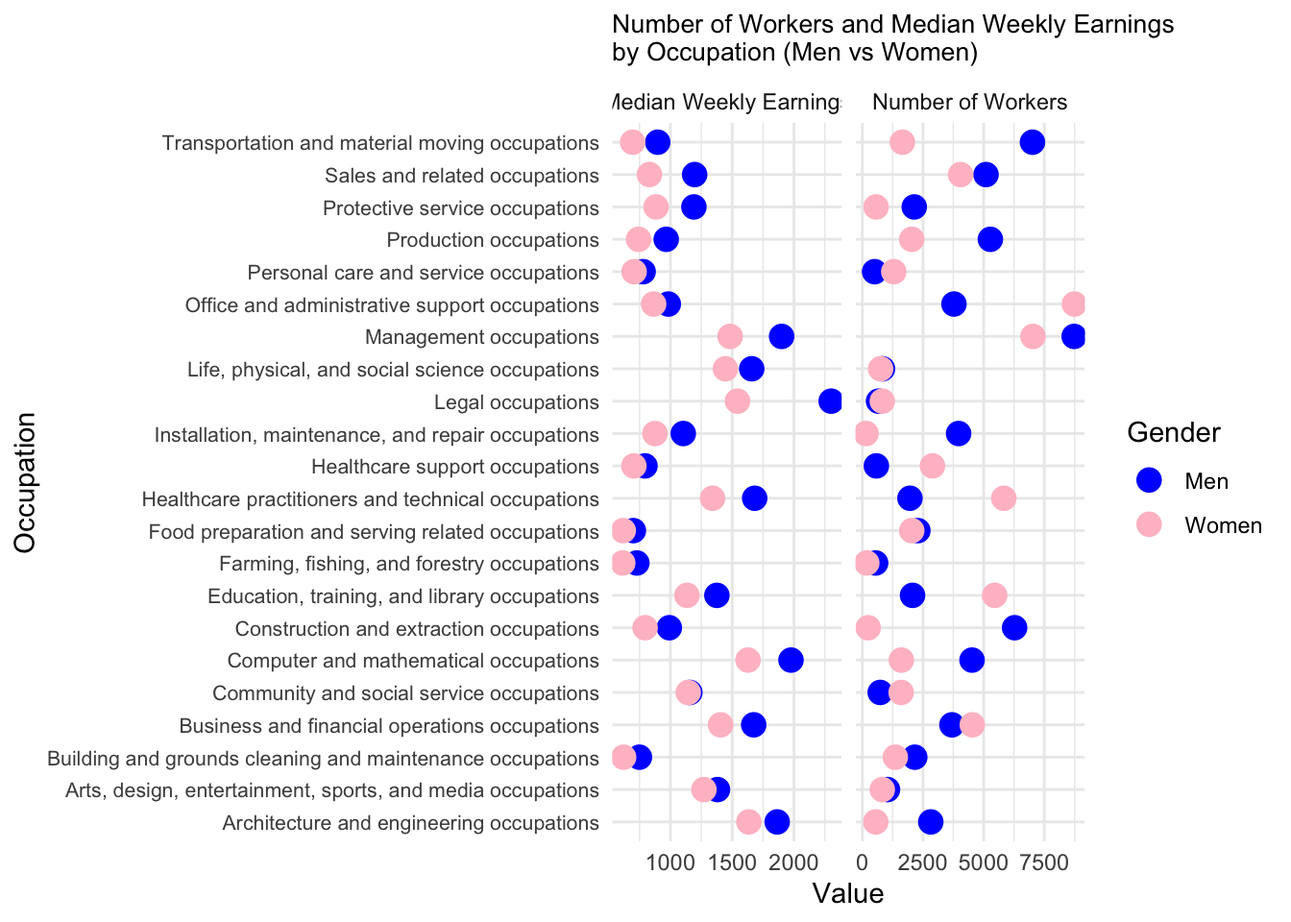
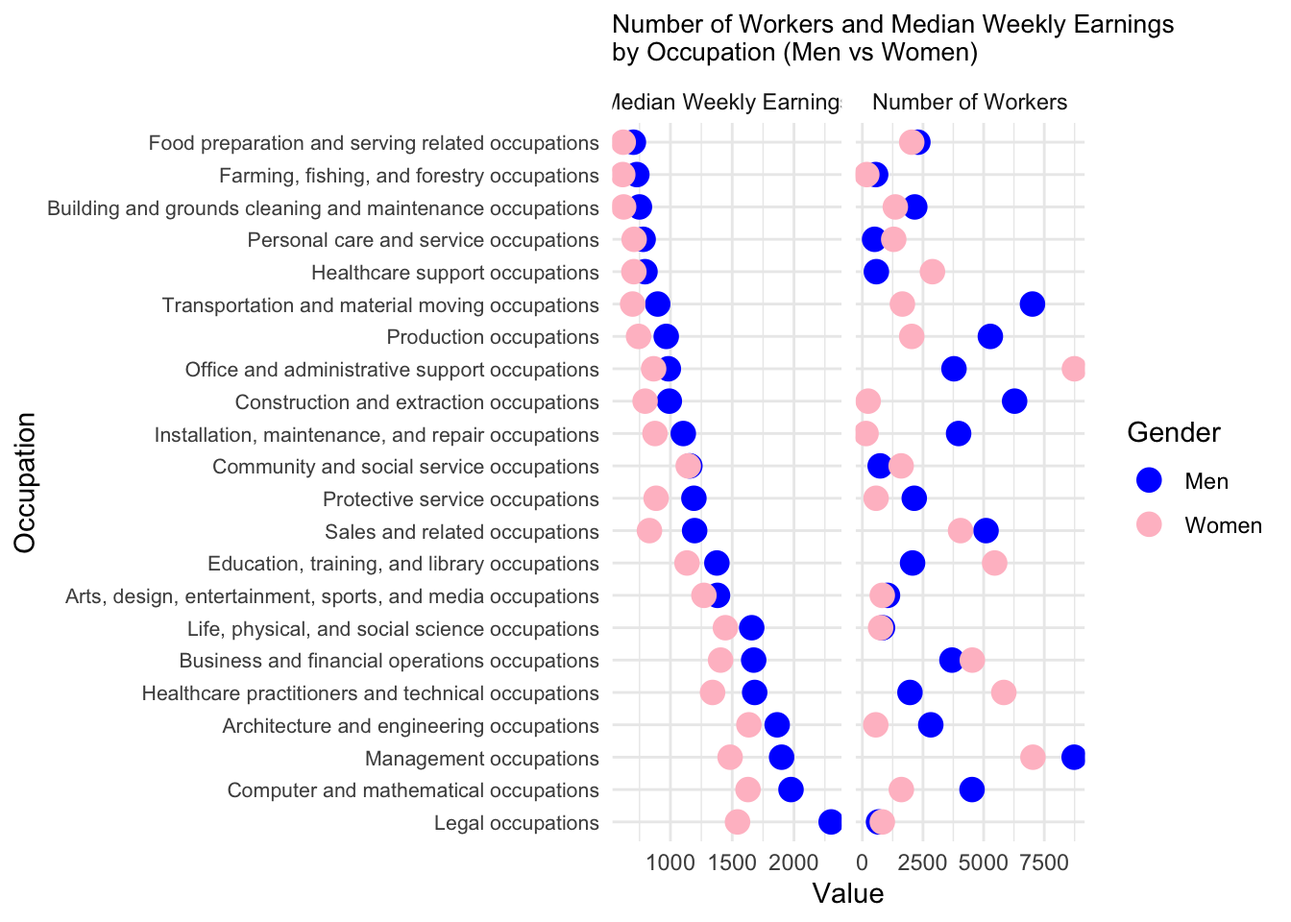
change clevland dot plot order

diff --git a/docs/results.html b/docs/results.html
@@ -329,31 +329,45 @@ pre > code.sourceCode > span > a:first-child::before { text-decoration: underlin
 <div class="cell">
 <details class="code-fold">
 <summary>Code</summary>
-<div class="sourceCode cell-code" id="cb3"><pre class="sourceCode r code-with-copy"><code class="sourceCode r"><span id="cb3-1"><a href="#cb3-1" aria-hidden="true" tabindex="-1"></a><span class="co"># Reshape the data to long format</span></span>
+<div class="sourceCode cell-code" id="cb3"><pre class="sourceCode r code-with-copy"><code class="sourceCode r"><span id="cb3-1"><a href="#cb3-1" aria-hidden="true" tabindex="-1"></a><span class="co"># Order occupations by men_median_weekly_earnings</span></span>
 <span id="cb3-2"><a href="#cb3-2" aria-hidden="true" tabindex="-1"></a>data_long <span class="ot">&lt;-</span> MedianWeeklyEarningsByOccupationAggregate <span class="sc">|&gt;</span></span>
-<span id="cb3-3"><a href="#cb3-3" aria-hidden="true" tabindex="-1"></a>  dplyr<span class="sc">::</span><span class="fu">select</span>(occupation, men_number_of_workers, women_number_of_workers, men_median_weekly_earnings, women_median_weekly_earnings) <span class="sc">|&gt;</span></span>
-<span id="cb3-4"><a href="#cb3-4" aria-hidden="true" tabindex="-1"></a>  <span class="fu">pivot_longer</span>(<span class="at">cols =</span> <span class="fu">c</span>(men_number_of_workers, women_number_of_workers, men_median_weekly_earnings, women_median_weekly_earnings), </span>
-<span id="cb3-5"><a href="#cb3-5" aria-hidden="true" tabindex="-1"></a>               <span class="at">names_to =</span> <span class="st">"variable"</span>, <span class="at">values_to =</span> <span class="st">"value"</span>) <span class="sc">|&gt;</span></span>
-<span id="cb3-6"><a href="#cb3-6" aria-hidden="true" tabindex="-1"></a>  <span class="fu">mutate</span>(<span class="at">gender =</span> <span class="fu">case_when</span>(</span>
-<span id="cb3-7"><a href="#cb3-7" aria-hidden="true" tabindex="-1"></a>    <span class="fu">str_detect</span>(variable, <span class="st">"women"</span>) <span class="sc">~</span> <span class="st">"Women"</span>,</span>
-<span id="cb3-8"><a href="#cb3-8" aria-hidden="true" tabindex="-1"></a>    <span class="fu">str_detect</span>(variable, <span class="st">"men"</span>) <span class="sc">~</span> <span class="st">"Men"</span></span>
-<span id="cb3-9"><a href="#cb3-9" aria-hidden="true" tabindex="-1"></a>  ),</span>
-<span id="cb3-10"><a href="#cb3-10" aria-hidden="true" tabindex="-1"></a>  <span class="at">variable =</span> <span class="fu">case_when</span>(</span>
-<span id="cb3-11"><a href="#cb3-11" aria-hidden="true" tabindex="-1"></a>    <span class="fu">str_detect</span>(variable, <span class="st">"number_of_workers"</span>) <span class="sc">~</span> <span class="st">"Number of Workers"</span>,</span>
-<span id="cb3-12"><a href="#cb3-12" aria-hidden="true" tabindex="-1"></a>    <span class="fu">str_detect</span>(variable, <span class="st">"median_weekly_earnings"</span>) <span class="sc">~</span> <span class="st">"Median Weekly Earnings"</span></span>
-<span id="cb3-13"><a href="#cb3-13" aria-hidden="true" tabindex="-1"></a>  ))</span>
-<span id="cb3-14"><a href="#cb3-14" aria-hidden="true" tabindex="-1"></a></span>
-<span id="cb3-15"><a href="#cb3-15" aria-hidden="true" tabindex="-1"></a><span class="co"># Plot with both number of workers and median weekly earnings</span></span>
-<span id="cb3-16"><a href="#cb3-16" aria-hidden="true" tabindex="-1"></a><span class="fu">ggplot</span>(data_long, <span class="fu">aes</span>(<span class="at">x =</span> value, <span class="at">y =</span> occupation, <span class="at">color =</span> gender)) <span class="sc">+</span></span>
-<span id="cb3-17"><a href="#cb3-17" aria-hidden="true" tabindex="-1"></a>  <span class="fu">geom_point</span>(<span class="at">size =</span> <span class="dv">4</span>) <span class="sc">+</span></span>
-<span id="cb3-18"><a href="#cb3-18" aria-hidden="true" tabindex="-1"></a>  <span class="fu">facet_wrap</span>(<span class="sc">~</span> variable, <span class="at">scales =</span> <span class="st">"free_x"</span>) <span class="sc">+</span>  <span class="co"># Separate by the variable (Workers vs Earnings)</span></span>
-<span id="cb3-19"><a href="#cb3-19" aria-hidden="true" tabindex="-1"></a>  <span class="fu">scale_color_manual</span>(<span class="at">values =</span> <span class="fu">c</span>(<span class="st">"blue"</span>, <span class="st">"pink"</span>)) <span class="sc">+</span></span>
-<span id="cb3-20"><a href="#cb3-20" aria-hidden="true" tabindex="-1"></a>  <span class="fu">labs</span>(<span class="at">title =</span> <span class="st">"Number of Workers and Median Weekly Earnings </span><span class="sc">\n</span><span class="st">by Occupation (Men vs Women)"</span>,</span>
-<span id="cb3-21"><a href="#cb3-21" aria-hidden="true" tabindex="-1"></a>       <span class="at">x =</span> <span class="st">"Value"</span>, </span>
-<span id="cb3-22"><a href="#cb3-22" aria-hidden="true" tabindex="-1"></a>       <span class="at">y =</span> <span class="st">"Occupation"</span>,</span>
-<span id="cb3-23"><a href="#cb3-23" aria-hidden="true" tabindex="-1"></a>       <span class="at">color =</span> <span class="st">"Gender"</span>) <span class="sc">+</span></span>
-<span id="cb3-24"><a href="#cb3-24" aria-hidden="true" tabindex="-1"></a>  <span class="fu">theme_minimal</span>() <span class="sc">+</span></span>
-<span id="cb3-25"><a href="#cb3-25" aria-hidden="true" tabindex="-1"></a>  <span class="fu">theme</span>(<span class="at">axis.text.y =</span> <span class="fu">element_text</span>(<span class="at">size =</span> <span class="dv">8</span>), <span class="at">plot.title =</span> <span class="fu">element_text</span>(<span class="at">size =</span> <span class="dv">10</span>))  <span class="co"># Adjust y-axis labels for readability</span></span></code><button title="Copy to Clipboard" class="code-copy-button"><i class="bi"></i></button></pre></div>
+<span id="cb3-3"><a href="#cb3-3" aria-hidden="true" tabindex="-1"></a>  dplyr<span class="sc">::</span><span class="fu">mutate</span>(</span>
+<span id="cb3-4"><a href="#cb3-4" aria-hidden="true" tabindex="-1"></a>    <span class="at">occupation =</span> <span class="fu">factor</span>(</span>
+<span id="cb3-5"><a href="#cb3-5" aria-hidden="true" tabindex="-1"></a>      occupation,</span>
+<span id="cb3-6"><a href="#cb3-6" aria-hidden="true" tabindex="-1"></a>      <span class="at">levels =</span> MedianWeeklyEarningsByOccupationAggregate <span class="sc">|&gt;</span></span>
+<span id="cb3-7"><a href="#cb3-7" aria-hidden="true" tabindex="-1"></a>        dplyr<span class="sc">::</span><span class="fu">arrange</span>(<span class="fu">desc</span>(men_median_weekly_earnings)) <span class="sc">|&gt;</span></span>
+<span id="cb3-8"><a href="#cb3-8" aria-hidden="true" tabindex="-1"></a>        dplyr<span class="sc">::</span><span class="fu">pull</span>(occupation)</span>
+<span id="cb3-9"><a href="#cb3-9" aria-hidden="true" tabindex="-1"></a>    )</span>
+<span id="cb3-10"><a href="#cb3-10" aria-hidden="true" tabindex="-1"></a>  ) <span class="sc">|&gt;</span></span>
+<span id="cb3-11"><a href="#cb3-11" aria-hidden="true" tabindex="-1"></a>  dplyr<span class="sc">::</span><span class="fu">select</span>(occupation, men_number_of_workers, women_number_of_workers, men_median_weekly_earnings, women_median_weekly_earnings) <span class="sc">|&gt;</span></span>
+<span id="cb3-12"><a href="#cb3-12" aria-hidden="true" tabindex="-1"></a>  <span class="fu">pivot_longer</span>(</span>
+<span id="cb3-13"><a href="#cb3-13" aria-hidden="true" tabindex="-1"></a>    <span class="at">cols =</span> <span class="fu">c</span>(men_number_of_workers, women_number_of_workers, men_median_weekly_earnings, women_median_weekly_earnings), </span>
+<span id="cb3-14"><a href="#cb3-14" aria-hidden="true" tabindex="-1"></a>    <span class="at">names_to =</span> <span class="st">"variable"</span>, <span class="at">values_to =</span> <span class="st">"value"</span></span>
+<span id="cb3-15"><a href="#cb3-15" aria-hidden="true" tabindex="-1"></a>  ) <span class="sc">|&gt;</span></span>
+<span id="cb3-16"><a href="#cb3-16" aria-hidden="true" tabindex="-1"></a>  dplyr<span class="sc">::</span><span class="fu">mutate</span>(</span>
+<span id="cb3-17"><a href="#cb3-17" aria-hidden="true" tabindex="-1"></a>    <span class="at">gender =</span> dplyr<span class="sc">::</span><span class="fu">case_when</span>(</span>
+<span id="cb3-18"><a href="#cb3-18" aria-hidden="true" tabindex="-1"></a>      stringr<span class="sc">::</span><span class="fu">str_detect</span>(variable, <span class="st">"women"</span>) <span class="sc">~</span> <span class="st">"Women"</span>,</span>
+<span id="cb3-19"><a href="#cb3-19" aria-hidden="true" tabindex="-1"></a>      stringr<span class="sc">::</span><span class="fu">str_detect</span>(variable, <span class="st">"men"</span>) <span class="sc">~</span> <span class="st">"Men"</span></span>
+<span id="cb3-20"><a href="#cb3-20" aria-hidden="true" tabindex="-1"></a>    ),</span>
+<span id="cb3-21"><a href="#cb3-21" aria-hidden="true" tabindex="-1"></a>    <span class="at">variable =</span> dplyr<span class="sc">::</span><span class="fu">case_when</span>(</span>
+<span id="cb3-22"><a href="#cb3-22" aria-hidden="true" tabindex="-1"></a>      stringr<span class="sc">::</span><span class="fu">str_detect</span>(variable, <span class="st">"number_of_workers"</span>) <span class="sc">~</span> <span class="st">"Number of Workers"</span>,</span>
+<span id="cb3-23"><a href="#cb3-23" aria-hidden="true" tabindex="-1"></a>      stringr<span class="sc">::</span><span class="fu">str_detect</span>(variable, <span class="st">"median_weekly_earnings"</span>) <span class="sc">~</span> <span class="st">"Median Weekly Earnings"</span></span>
+<span id="cb3-24"><a href="#cb3-24" aria-hidden="true" tabindex="-1"></a>    )</span>
+<span id="cb3-25"><a href="#cb3-25" aria-hidden="true" tabindex="-1"></a>  )</span>
+<span id="cb3-26"><a href="#cb3-26" aria-hidden="true" tabindex="-1"></a></span>
+<span id="cb3-27"><a href="#cb3-27" aria-hidden="true" tabindex="-1"></a><span class="co"># Plot with ordered occupations</span></span>
+<span id="cb3-28"><a href="#cb3-28" aria-hidden="true" tabindex="-1"></a><span class="fu">ggplot</span>(data_long, <span class="fu">aes</span>(<span class="at">x =</span> value, <span class="at">y =</span> occupation, <span class="at">color =</span> gender)) <span class="sc">+</span></span>
+<span id="cb3-29"><a href="#cb3-29" aria-hidden="true" tabindex="-1"></a>  <span class="fu">geom_point</span>(<span class="at">size =</span> <span class="dv">4</span>) <span class="sc">+</span></span>
+<span id="cb3-30"><a href="#cb3-30" aria-hidden="true" tabindex="-1"></a>  <span class="fu">facet_wrap</span>(<span class="sc">~</span> variable, <span class="at">scales =</span> <span class="st">"free_x"</span>) <span class="sc">+</span>  <span class="co"># Separate by the variable (Workers vs Earnings)</span></span>
+<span id="cb3-31"><a href="#cb3-31" aria-hidden="true" tabindex="-1"></a>  <span class="fu">scale_color_manual</span>(<span class="at">values =</span> <span class="fu">c</span>(<span class="st">"blue"</span>, <span class="st">"pink"</span>)) <span class="sc">+</span></span>
+<span id="cb3-32"><a href="#cb3-32" aria-hidden="true" tabindex="-1"></a>  <span class="fu">labs</span>(</span>
+<span id="cb3-33"><a href="#cb3-33" aria-hidden="true" tabindex="-1"></a>    <span class="at">title =</span> <span class="st">"Number of Workers and Median Weekly Earnings </span><span class="sc">\n</span><span class="st">by Occupation (Men vs Women)"</span>,</span>
+<span id="cb3-34"><a href="#cb3-34" aria-hidden="true" tabindex="-1"></a>    <span class="at">x =</span> <span class="st">"Value"</span>, </span>
+<span id="cb3-35"><a href="#cb3-35" aria-hidden="true" tabindex="-1"></a>    <span class="at">y =</span> <span class="st">"Occupation"</span>,</span>
+<span id="cb3-36"><a href="#cb3-36" aria-hidden="true" tabindex="-1"></a>    <span class="at">color =</span> <span class="st">"Gender"</span></span>
+<span id="cb3-37"><a href="#cb3-37" aria-hidden="true" tabindex="-1"></a>  ) <span class="sc">+</span></span>
+<span id="cb3-38"><a href="#cb3-38" aria-hidden="true" tabindex="-1"></a>  <span class="fu">theme_minimal</span>() <span class="sc">+</span></span>
+<span id="cb3-39"><a href="#cb3-39" aria-hidden="true" tabindex="-1"></a>  <span class="fu">theme</span>(<span class="at">axis.text.y =</span> <span class="fu">element_text</span>(<span class="at">size =</span> <span class="dv">8</span>), <span class="at">plot.title =</span> <span class="fu">element_text</span>(<span class="at">size =</span> <span class="dv">10</span>))  <span class="co"># Adjust y-axis labels for readability</span></span></code><button title="Copy to Clipboard" class="code-copy-button"><i class="bi"></i></button></pre></div>
 </details>
 <div class="cell-output-display">
 <div>
@@ -507,8 +521,8 @@ pre > code.sourceCode > span > a:first-child::before { text-decoration: underlin
 <span id="cb6-48"><a href="#cb6-48" aria-hidden="true" tabindex="-1"></a>  )</span></code><button title="Copy to Clipboard" class="code-copy-button"><i class="bi"></i></button></pre></div>
 </details>
 <div class="cell-output-display">
-<div class="plotly html-widget html-fill-item" id="htmlwidget-113b57d414bc28be6945" style="width:100%;height:464px;"></div>
-<script type="application/json" data-for="htmlwidget-113b57d414bc28be6945">{"x":{"visdat":{"c8b077e2709":["function () ","plotlyVisDat"]},"cur_data":"c8b077e2709","attrs":{"c8b077e2709":{"x":{},"y":{},"mode":"markers","text":{},"hoverinfo":"text","marker":{"size":10,"opacity":0.69999999999999996},"color":{},"colors":["red","blue","green","orange"],"alpha_stroke":1,"sizes":[10,100],"spans":[1,20],"type":"scatter"}},"layout":{"margin":{"b":40,"l":60,"t":25,"r":10},"title":"Men vs. Women Median Weekly Earnings by Occupation","xaxis":{"domain":[0,1],"automargin":true,"title":"Men's Median Weekly Earnings ($)"},"yaxis":{"domain":[0,1],"automargin":true,"title":"Women's Median Weekly Earnings ($)"},"shapes":[{"type":"line","x0":500,"x1":2983,"y0":500,"y1":2907,"line":{"color":"black","width":2,"dash":"dot"}}],"annotations":[{"x":1.1000000000000001,"y":0.050000000000000003,"xref":"paper","yref":"paper","text":"---- Men Median Pay = Women Median Pay","showarrow":true,"arrowhead":2,"ax":20,"ay":0,"font":{"size":12,"color":"black"}}],"hovermode":"closest","showlegend":true},"source":"A","config":{"modeBarButtonsToAdd":["hoverclosest","hovercompare"],"showSendToCloud":false},"data":[{"x":[1294,1495,1312],"y":[1221,1408,1609],"mode":"markers","text":["Graphic designers","Other designers","Producers and directors"],"hoverinfo":["text","text","text"],"marker":{"color":"rgba(255,0,0,1)","size":10,"opacity":0.69999999999999996,"line":{"color":"rgba(255,0,0,1)"}},"type":"scatter","name":"Arts, design, entertainment, sports, and media occupations","textfont":{"color":"rgba(255,0,0,1)"},"error_y":{"color":"rgba(255,0,0,1)"},"error_x":{"color":"rgba(255,0,0,1)"},"line":{"color":"rgba(255,0,0,1)"},"xaxis":"x","yaxis":"y","frame":null},{"x":[1852,1370,1347,1242,772],"y":[1565,1220,1213,1124,685],"mode":"markers","text":["Postsecondary teachers","Elementary and middle school teachers","Secondary school teachers","Other teachers and instructors","Teaching assistants"],"hoverinfo":["text","text","text","text","text"],"marker":{"color":"rgba(218,0,108,1)","size":10,"opacity":0.69999999999999996,"line":{"color":"rgba(218,0,108,1)"}},"type":"scatter","name":"Education related occupations","textfont":{"color":"rgba(218,0,108,1)"},"error_y":{"color":"rgba(218,0,108,1)"},"error_x":{"color":"rgba(218,0,108,1)"},"line":{"color":"rgba(218,0,108,1)"},"xaxis":"x","yaxis":"y","frame":null},{"x":[1682,2238,2920,1715,1657,1172,1483,992,1018,709,751,765,904,919],"y":[1341,2180,2907,1526,1409,1089,1321,886,984,625,668,695,738,790],"mode":"markers","text":["Healthcare practitioners and technical occupations","Pharmacists","Other physicians","Physical therapists","Registered nurses","Clinical laboratory technologists and technicians","Radiologic technologists and technicians","Pharmacy technicians","Licensed practical and licensed vocational nurses","Home health aides","Personal care aides","Nursing assistants","Medical assistants","Other healthcare support workers"],"hoverinfo":["text","text","text","text","text","text","text","text","text","text","text","text","text","text"],"marker":{"color":"rgba(154,0,195,1)","size":10,"opacity":0.69999999999999996,"line":{"color":"rgba(154,0,195,1)"}},"type":"scatter","name":"Healthcare occupations","textfont":{"color":"rgba(154,0,195,1)"},"error_y":{"color":"rgba(154,0,195,1)"},"error_x":{"color":"rgba(154,0,195,1)"},"line":{"color":"rgba(154,0,195,1)"},"xaxis":"x","yaxis":"y","frame":null},{"x":[2983,1689,1911,2297,2313,2100,1891,1879,1318,1747,1870,1121,1914,1521,1501,1887,1270,1514,1468,1597,1367,1648,1207,1919,1993,1771,1737,1644,1760,2082,1457,2386,1736,1894,1906,2296,1478,1631,2208,1668,1893,1839,1766,1953,1287,2290,1742,1430,1157,1227,1248,1253,967,2505,1425],"y":[2520,1347,1746,1688,2192,1497,1706,1585,1219,1431,1469,924,1540,1143,1341,1536,1029,1216,1306,1377,1259,1222,994,1661,1817,1552,1224,1504,1643,1552,1294,1233,1278,1487,1760,2020,1348,1430,1665,1474,1691,1465,1682,1904,982,1537,1649,1275,1144,1158,1011,1228,962,2330,1125],"mode":"markers","text":["Chief executives","General and operations managers","Marketing managers","Sales managers","Computer and information systems managers","Financial managers","Human resources managers","Purchasing managers","Transportation, storage, and distribution managers","Construction managers","Education and childcare administrators","Food service managers","Medical and health services managers","Property, real estate, and community association managers","Social and community service managers","Managers, all other","Wholesale and retail buyers, except farm products","Purchasing agents, except wholesale, retail, and farm products","Claims adjusters, appraisers, examiners, and investigators","Compliance officers","Human resources workers","Training and development specialists","Logisticians","Project management specialists","Management analysts","Market research analysts and marketing specialists","Business operations specialists, all other","Accountants and auditors","Financial and investment analysts","Personal financial advisors","Credit counselors and loan officers","Other financial specialists","Professional and related occupations","Computer systems analysts","Computer programmers","Software developers","Computer support specialists","Computer occupations, all other","Operations research analysts","Other mathematical science occupations","Architects, except landscape and naval","Civil engineers","Industrial engineers, including health and safety","Engineers, all other","Other engineering technologists and technicians, except drafters","Medical scientists","Physical scientists, all other","Other life, physical, and social science technicians","Community and social service occupations","Educational, guidance, and career counselors and advisors","Counselors, all other","Social workers, all other","Social and human service assistants","Lawyers","Paralegals and legal assistants"],"hoverinfo":["text","text","text","text","text","text","text","text","text","text","text","text","text","text","text","text","text","text","text","text","text","text","text","text","text","text","text","text","text","text","text","text","text","text","text","text","text","text","text","text","text","text","text","text","text","text","text","text","text","text","text","text","text","text","text"],"marker":{"color":"rgba(83,58,233,1)","size":10,"opacity":0.69999999999999996,"line":{"color":"rgba(83,58,233,1)"}},"type":"scatter","name":"Management, business, and financial operations occupations","textfont":{"color":"rgba(83,58,233,1)"},"error_y":{"color":"rgba(83,58,233,1)"},"error_x":{"color":"rgba(83,58,233,1)"},"line":{"color":"rgba(83,58,233,1)"},"xaxis":"x","yaxis":"y","frame":null},{"x":[745,686,704,870],"y":[626,611,598,711],"mode":"markers","text":["Janitors and building cleaners","Maids and housekeeping cleaners","Miscellaneous agricultural workers","Construction laborers"],"hoverinfo":["text","text","text","text"],"marker":{"color":"rgba(125,147,166,1)","size":10,"opacity":0.69999999999999996,"line":{"color":"rgba(125,147,166,1)"}},"type":"scatter","name":"Natural resources, construction, and maintenance occupations.","textfont":{"color":"rgba(125,147,166,1)"},"error_y":{"color":"rgba(125,147,166,1)"},"error_x":{"color":"rgba(125,147,166,1)"},"line":{"color":"rgba(125,147,166,1)"},"xaxis":"x","yaxis":"y","frame":null},{"x":[1133,1363,811,854,819,682,645,768,639,684,607,801],"y":[914,1034,717,690,677,608,600,745,595,617,588,716],"mode":"markers","text":["Correctional officers and jailers","Police officers","Security guards and gambling surveillance officers","Chefs and head cooks","First-line supervisors of food preparation and serving workers","Cooks","Food preparation workers","Bartenders","Fast food and counter workers","Waiters and waitresses","Dining room and cafeteria attendants and bartender helpers","Recreation workers"],"hoverinfo":["text","text","text","text","text","text","text","text","text","text","text","text"],"marker":{"color":"rgba(87,228,79,1)","size":10,"opacity":0.69999999999999996,"line":{"color":"rgba(87,228,79,1)"}},"type":"scatter","name":"Personal care and service occupations","textfont":{"color":"rgba(87,228,79,1)"},"error_y":{"color":"rgba(87,228,79,1)"},"error_x":{"color":"rgba(87,228,79,1)"},"line":{"color":"rgba(87,228,79,1)"},"xaxis":"x","yaxis":"y","frame":null},{"x":[1263,887,852,726,818,906,1010,752,893],"y":[914,782,758,656,696,684,809,698,771],"mode":"markers","text":["First-line supervisors of production and operating workers","Electrical, electronics, and electromechanical assemblers","Other assemblers and fabricators","Bakers","Butchers and other meat, poultry, and fish processing workers","Other metal workers and plastic workers","Inspectors, testers, sorters, samplers, and weighers","Packaging and filling machine operators and tenders","Other production workers"],"hoverinfo":["text","text","text","text","text","text","text","text","text"],"marker":{"color":"rgba(135,236,0,1)","size":10,"opacity":0.69999999999999996,"line":{"color":"rgba(135,236,0,1)"}},"type":"scatter","name":"Production occupations","textfont":{"color":"rgba(135,236,0,1)"},"error_y":{"color":"rgba(135,236,0,1)"},"error_x":{"color":"rgba(135,236,0,1)"},"line":{"color":"rgba(135,236,0,1)"},"xaxis":"x","yaxis":"y","frame":null},{"x":[1094,1464,616,988,1728,1310,2412,1451,1535,1444,1019,1209,1100,1335,918,770,885,1128,1194,1335,827,1101,819,1062,867,1038],"y":[904,1151,602,710,1398,927,1654,1137,1215,1215,807,1075,922,1009,799,749,711,852,1015,1333,789,882,809,896,824,988],"mode":"markers","text":["First-line supervisors of retail sales workers","First-line supervisors of non-retail sales workers","Cashiers","Retail salespersons","Advertising sales agents","Insurance sales agents","Securities, commodities, and financial services sales agents","Sales representatives of services, except advertising, insurance, financial services, and travel","Sales representatives, wholesale and manufacturing","Real estate brokers and sales agents","Sales and related workers, all other","First-line supervisors of office and administrative support workers","Bookkeeping, accounting, and auditing clerks","Financial clerks, all other","Customer service representatives","Receptionists and information clerks","Couriers and messengers","Dispatchers, except police, fire, and ambulance","Postal service mail carriers","Production, planning, and expediting clerks","Shipping, receiving, and inventory clerks","Secretaries and administrative assistants, except legal, medical, and executive","Data entry keyers","Insurance claims and policy processing clerks","Office clerks, general","Office and administrative support workers, all other"],"hoverinfo":["text","text","text","text","text","text","text","text","text","text","text","text","text","text","text","text","text","text","text","text","text","text","text","text","text","text"],"marker":{"color":"rgba(206,204,0,1)","size":10,"opacity":0.69999999999999996,"line":{"color":"rgba(206,204,0,1)"}},"type":"scatter","name":"Sales and office occupations","textfont":{"color":"rgba(206,204,0,1)"},"error_y":{"color":"rgba(206,204,0,1)"},"error_x":{"color":"rgba(206,204,0,1)"},"line":{"color":"rgba(206,204,0,1)"},"xaxis":"x","yaxis":"y","frame":null},{"x":[1127,979,1016,812,704,801,732,730],"y":[791,811,734,786,605,685,667,667],"mode":"markers","text":["Supervisors of transportation and material moving workers","Bus drivers, transit and intercity","Driver/sales workers and truck drivers","Industrial truck and tractor operators","Cleaners of vehicles and equipment","Laborers and freight, stock, and material movers, hand","Packers and packagers, hand","Stockers and order fillers"],"hoverinfo":["text","text","text","text","text","text","text","text"],"marker":{"color":"rgba(255,165,0,1)","size":10,"opacity":0.69999999999999996,"line":{"color":"rgba(255,165,0,1)"}},"type":"scatter","name":"Transportation and material moving occupations","textfont":{"color":"rgba(255,165,0,1)"},"error_y":{"color":"rgba(255,165,0,1)"},"error_x":{"color":"rgba(255,165,0,1)"},"line":{"color":"rgba(255,165,0,1)"},"xaxis":"x","yaxis":"y","frame":null}],"highlight":{"on":"plotly_click","persistent":false,"dynamic":false,"selectize":false,"opacityDim":0.20000000000000001,"selected":{"opacity":1},"debounce":0},"shinyEvents":["plotly_hover","plotly_click","plotly_selected","plotly_relayout","plotly_brushed","plotly_brushing","plotly_clickannotation","plotly_doubleclick","plotly_deselect","plotly_afterplot","plotly_sunburstclick"],"base_url":"https://plot.ly"},"evals":[],"jsHooks":[]}</script>
+<div class="plotly html-widget html-fill-item" id="htmlwidget-d727b5ba210e7c0f6597" style="width:100%;height:464px;"></div>
+<script type="application/json" data-for="htmlwidget-d727b5ba210e7c0f6597">{"x":{"visdat":{"f5ffdadcbff":["function () ","plotlyVisDat"]},"cur_data":"f5ffdadcbff","attrs":{"f5ffdadcbff":{"x":{},"y":{},"mode":"markers","text":{},"hoverinfo":"text","marker":{"size":10,"opacity":0.69999999999999996},"color":{},"colors":["red","blue","green","orange"],"alpha_stroke":1,"sizes":[10,100],"spans":[1,20],"type":"scatter"}},"layout":{"margin":{"b":40,"l":60,"t":25,"r":10},"title":"Men vs. Women Median Weekly Earnings by Occupation","xaxis":{"domain":[0,1],"automargin":true,"title":"Men's Median Weekly Earnings ($)"},"yaxis":{"domain":[0,1],"automargin":true,"title":"Women's Median Weekly Earnings ($)"},"shapes":[{"type":"line","x0":500,"x1":2983,"y0":500,"y1":2907,"line":{"color":"black","width":2,"dash":"dot"}}],"annotations":[{"x":1.1000000000000001,"y":0.050000000000000003,"xref":"paper","yref":"paper","text":"---- Men Median Pay = Women Median Pay","showarrow":true,"arrowhead":2,"ax":20,"ay":0,"font":{"size":12,"color":"black"}}],"hovermode":"closest","showlegend":true},"source":"A","config":{"modeBarButtonsToAdd":["hoverclosest","hovercompare"],"showSendToCloud":false},"data":[{"x":[1294,1495,1312],"y":[1221,1408,1609],"mode":"markers","text":["Graphic designers","Other designers","Producers and directors"],"hoverinfo":["text","text","text"],"marker":{"color":"rgba(255,0,0,1)","size":10,"opacity":0.69999999999999996,"line":{"color":"rgba(255,0,0,1)"}},"type":"scatter","name":"Arts, design, entertainment, sports, and media occupations","textfont":{"color":"rgba(255,0,0,1)"},"error_y":{"color":"rgba(255,0,0,1)"},"error_x":{"color":"rgba(255,0,0,1)"},"line":{"color":"rgba(255,0,0,1)"},"xaxis":"x","yaxis":"y","frame":null},{"x":[1852,1370,1347,1242,772],"y":[1565,1220,1213,1124,685],"mode":"markers","text":["Postsecondary teachers","Elementary and middle school teachers","Secondary school teachers","Other teachers and instructors","Teaching assistants"],"hoverinfo":["text","text","text","text","text"],"marker":{"color":"rgba(218,0,108,1)","size":10,"opacity":0.69999999999999996,"line":{"color":"rgba(218,0,108,1)"}},"type":"scatter","name":"Education related occupations","textfont":{"color":"rgba(218,0,108,1)"},"error_y":{"color":"rgba(218,0,108,1)"},"error_x":{"color":"rgba(218,0,108,1)"},"line":{"color":"rgba(218,0,108,1)"},"xaxis":"x","yaxis":"y","frame":null},{"x":[1682,2238,2920,1715,1657,1172,1483,992,1018,709,751,765,904,919],"y":[1341,2180,2907,1526,1409,1089,1321,886,984,625,668,695,738,790],"mode":"markers","text":["Healthcare practitioners and technical occupations","Pharmacists","Other physicians","Physical therapists","Registered nurses","Clinical laboratory technologists and technicians","Radiologic technologists and technicians","Pharmacy technicians","Licensed practical and licensed vocational nurses","Home health aides","Personal care aides","Nursing assistants","Medical assistants","Other healthcare support workers"],"hoverinfo":["text","text","text","text","text","text","text","text","text","text","text","text","text","text"],"marker":{"color":"rgba(154,0,195,1)","size":10,"opacity":0.69999999999999996,"line":{"color":"rgba(154,0,195,1)"}},"type":"scatter","name":"Healthcare occupations","textfont":{"color":"rgba(154,0,195,1)"},"error_y":{"color":"rgba(154,0,195,1)"},"error_x":{"color":"rgba(154,0,195,1)"},"line":{"color":"rgba(154,0,195,1)"},"xaxis":"x","yaxis":"y","frame":null},{"x":[2983,1689,1911,2297,2313,2100,1891,1879,1318,1747,1870,1121,1914,1521,1501,1887,1270,1514,1468,1597,1367,1648,1207,1919,1993,1771,1737,1644,1760,2082,1457,2386,1736,1894,1906,2296,1478,1631,2208,1668,1893,1839,1766,1953,1287,2290,1742,1430,1157,1227,1248,1253,967,2505,1425],"y":[2520,1347,1746,1688,2192,1497,1706,1585,1219,1431,1469,924,1540,1143,1341,1536,1029,1216,1306,1377,1259,1222,994,1661,1817,1552,1224,1504,1643,1552,1294,1233,1278,1487,1760,2020,1348,1430,1665,1474,1691,1465,1682,1904,982,1537,1649,1275,1144,1158,1011,1228,962,2330,1125],"mode":"markers","text":["Chief executives","General and operations managers","Marketing managers","Sales managers","Computer and information systems managers","Financial managers","Human resources managers","Purchasing managers","Transportation, storage, and distribution managers","Construction managers","Education and childcare administrators","Food service managers","Medical and health services managers","Property, real estate, and community association managers","Social and community service managers","Managers, all other","Wholesale and retail buyers, except farm products","Purchasing agents, except wholesale, retail, and farm products","Claims adjusters, appraisers, examiners, and investigators","Compliance officers","Human resources workers","Training and development specialists","Logisticians","Project management specialists","Management analysts","Market research analysts and marketing specialists","Business operations specialists, all other","Accountants and auditors","Financial and investment analysts","Personal financial advisors","Credit counselors and loan officers","Other financial specialists","Professional and related occupations","Computer systems analysts","Computer programmers","Software developers","Computer support specialists","Computer occupations, all other","Operations research analysts","Other mathematical science occupations","Architects, except landscape and naval","Civil engineers","Industrial engineers, including health and safety","Engineers, all other","Other engineering technologists and technicians, except drafters","Medical scientists","Physical scientists, all other","Other life, physical, and social science technicians","Community and social service occupations","Educational, guidance, and career counselors and advisors","Counselors, all other","Social workers, all other","Social and human service assistants","Lawyers","Paralegals and legal assistants"],"hoverinfo":["text","text","text","text","text","text","text","text","text","text","text","text","text","text","text","text","text","text","text","text","text","text","text","text","text","text","text","text","text","text","text","text","text","text","text","text","text","text","text","text","text","text","text","text","text","text","text","text","text","text","text","text","text","text","text"],"marker":{"color":"rgba(83,58,233,1)","size":10,"opacity":0.69999999999999996,"line":{"color":"rgba(83,58,233,1)"}},"type":"scatter","name":"Management, business, and financial operations occupations","textfont":{"color":"rgba(83,58,233,1)"},"error_y":{"color":"rgba(83,58,233,1)"},"error_x":{"color":"rgba(83,58,233,1)"},"line":{"color":"rgba(83,58,233,1)"},"xaxis":"x","yaxis":"y","frame":null},{"x":[745,686,704,870],"y":[626,611,598,711],"mode":"markers","text":["Janitors and building cleaners","Maids and housekeeping cleaners","Miscellaneous agricultural workers","Construction laborers"],"hoverinfo":["text","text","text","text"],"marker":{"color":"rgba(125,147,166,1)","size":10,"opacity":0.69999999999999996,"line":{"color":"rgba(125,147,166,1)"}},"type":"scatter","name":"Natural resources, construction, and maintenance occupations.","textfont":{"color":"rgba(125,147,166,1)"},"error_y":{"color":"rgba(125,147,166,1)"},"error_x":{"color":"rgba(125,147,166,1)"},"line":{"color":"rgba(125,147,166,1)"},"xaxis":"x","yaxis":"y","frame":null},{"x":[1133,1363,811,854,819,682,645,768,639,684,607,801],"y":[914,1034,717,690,677,608,600,745,595,617,588,716],"mode":"markers","text":["Correctional officers and jailers","Police officers","Security guards and gambling surveillance officers","Chefs and head cooks","First-line supervisors of food preparation and serving workers","Cooks","Food preparation workers","Bartenders","Fast food and counter workers","Waiters and waitresses","Dining room and cafeteria attendants and bartender helpers","Recreation workers"],"hoverinfo":["text","text","text","text","text","text","text","text","text","text","text","text"],"marker":{"color":"rgba(87,228,79,1)","size":10,"opacity":0.69999999999999996,"line":{"color":"rgba(87,228,79,1)"}},"type":"scatter","name":"Personal care and service occupations","textfont":{"color":"rgba(87,228,79,1)"},"error_y":{"color":"rgba(87,228,79,1)"},"error_x":{"color":"rgba(87,228,79,1)"},"line":{"color":"rgba(87,228,79,1)"},"xaxis":"x","yaxis":"y","frame":null},{"x":[1263,887,852,726,818,906,1010,752,893],"y":[914,782,758,656,696,684,809,698,771],"mode":"markers","text":["First-line supervisors of production and operating workers","Electrical, electronics, and electromechanical assemblers","Other assemblers and fabricators","Bakers","Butchers and other meat, poultry, and fish processing workers","Other metal workers and plastic workers","Inspectors, testers, sorters, samplers, and weighers","Packaging and filling machine operators and tenders","Other production workers"],"hoverinfo":["text","text","text","text","text","text","text","text","text"],"marker":{"color":"rgba(135,236,0,1)","size":10,"opacity":0.69999999999999996,"line":{"color":"rgba(135,236,0,1)"}},"type":"scatter","name":"Production occupations","textfont":{"color":"rgba(135,236,0,1)"},"error_y":{"color":"rgba(135,236,0,1)"},"error_x":{"color":"rgba(135,236,0,1)"},"line":{"color":"rgba(135,236,0,1)"},"xaxis":"x","yaxis":"y","frame":null},{"x":[1094,1464,616,988,1728,1310,2412,1451,1535,1444,1019,1209,1100,1335,918,770,885,1128,1194,1335,827,1101,819,1062,867,1038],"y":[904,1151,602,710,1398,927,1654,1137,1215,1215,807,1075,922,1009,799,749,711,852,1015,1333,789,882,809,896,824,988],"mode":"markers","text":["First-line supervisors of retail sales workers","First-line supervisors of non-retail sales workers","Cashiers","Retail salespersons","Advertising sales agents","Insurance sales agents","Securities, commodities, and financial services sales agents","Sales representatives of services, except advertising, insurance, financial services, and travel","Sales representatives, wholesale and manufacturing","Real estate brokers and sales agents","Sales and related workers, all other","First-line supervisors of office and administrative support workers","Bookkeeping, accounting, and auditing clerks","Financial clerks, all other","Customer service representatives","Receptionists and information clerks","Couriers and messengers","Dispatchers, except police, fire, and ambulance","Postal service mail carriers","Production, planning, and expediting clerks","Shipping, receiving, and inventory clerks","Secretaries and administrative assistants, except legal, medical, and executive","Data entry keyers","Insurance claims and policy processing clerks","Office clerks, general","Office and administrative support workers, all other"],"hoverinfo":["text","text","text","text","text","text","text","text","text","text","text","text","text","text","text","text","text","text","text","text","text","text","text","text","text","text"],"marker":{"color":"rgba(206,204,0,1)","size":10,"opacity":0.69999999999999996,"line":{"color":"rgba(206,204,0,1)"}},"type":"scatter","name":"Sales and office occupations","textfont":{"color":"rgba(206,204,0,1)"},"error_y":{"color":"rgba(206,204,0,1)"},"error_x":{"color":"rgba(206,204,0,1)"},"line":{"color":"rgba(206,204,0,1)"},"xaxis":"x","yaxis":"y","frame":null},{"x":[1127,979,1016,812,704,801,732,730],"y":[791,811,734,786,605,685,667,667],"mode":"markers","text":["Supervisors of transportation and material moving workers","Bus drivers, transit and intercity","Driver/sales workers and truck drivers","Industrial truck and tractor operators","Cleaners of vehicles and equipment","Laborers and freight, stock, and material movers, hand","Packers and packagers, hand","Stockers and order fillers"],"hoverinfo":["text","text","text","text","text","text","text","text"],"marker":{"color":"rgba(255,165,0,1)","size":10,"opacity":0.69999999999999996,"line":{"color":"rgba(255,165,0,1)"}},"type":"scatter","name":"Transportation and material moving occupations","textfont":{"color":"rgba(255,165,0,1)"},"error_y":{"color":"rgba(255,165,0,1)"},"error_x":{"color":"rgba(255,165,0,1)"},"line":{"color":"rgba(255,165,0,1)"},"xaxis":"x","yaxis":"y","frame":null}],"highlight":{"on":"plotly_click","persistent":false,"dynamic":false,"selectize":false,"opacityDim":0.20000000000000001,"selected":{"opacity":1},"debounce":0},"shinyEvents":["plotly_hover","plotly_click","plotly_selected","plotly_relayout","plotly_brushed","plotly_brushing","plotly_clickannotation","plotly_doubleclick","plotly_deselect","plotly_afterplot","plotly_sunburstclick"],"base_url":"https://plot.ly"},"evals":[],"jsHooks":[]}</script>
 </div>
 </div>
 </section>

diff --git a/docs/scripts/myscript.js b/docs/scripts/myscript.js
@@ -8,8 +8,7 @@ const rowConverter = function (d) {
     median_income: +d.Total_MedianEarnings,
     median_income_men: +d.Men_MedianEarnings,
     median_income_women: +d.Women_MedianEarnings,
-    job: d.Occupation,
-    job_group: d.Occupation_Group,
+    job: d.Occupation
   };
 };
 
@@ -169,8 +168,8 @@ const extraLegendItem = legend
           .html(
             `<strong>Job:</strong> ${d.job}<br>
              <strong>Year:</strong> ${d.year}<br>
-             <strong>Men Number:</strong> ${d.men}<br>
-             <strong>Women Number:</strong> ${d.women}<br>
+             <strong>Men Num Workers:</strong>${(d.men).toFixed(2)} MM<br>
+             <strong>Women Num Workers:</strong>${(d.women).toFixed(2)} MM<br>
              <strong>Median Income (Men):</strong> $${d.median_income_men}<br>
              <strong>Median Income (Women):</strong> $${d.median_income_women}`
           )
@@ -187,7 +186,7 @@ const extraLegendItem = legend
       })
       .transition()
       .duration(500)
-      .attr("x", (d) => x(d.total_employees) - 10) // Center the bar
+      .attr("x", (d, i) => x(d.total_employees) - 10) // Center the bar
       .attr("y", (d) => y(Math.min(d.median_income_men, d.median_income_women)))
       .attr("width", 20)
       .attr("height", (d) =>
@@ -220,7 +219,7 @@ const extraLegendItem = legend
   }
 
   // Listen for slider changes
-  const slider = d3.select("#year-slider");
+  const slider = d3.select("#year-slider");x
   const yearText = d3.select("#selected-year");
 
   slider.on("input", function () {

diff --git a/scripts/myscript.js b/scripts/myscript.js
@@ -8,8 +8,7 @@ const rowConverter = function (d) {
     median_income: +d.Total_MedianEarnings,
     median_income_men: +d.Men_MedianEarnings,
     median_income_women: +d.Women_MedianEarnings,
-    job: d.Occupation,
-    job_group: d.Occupation_Group,
+    job: d.Occupation
   };
 };
 
@@ -169,8 +168,8 @@ const extraLegendItem = legend
           .html(
             `<strong>Job:</strong> ${d.job}<br>
              <strong>Year:</strong> ${d.year}<br>
-             <strong>Men Number:</strong> ${d.men}<br>
-             <strong>Women Number:</strong> ${d.women}<br>
+             <strong>Men Num Workers:</strong>${(d.men).toFixed(2)} MM<br>
+             <strong>Women Num Workers:</strong>${(d.women).toFixed(2)} MM<br>
              <strong>Median Income (Men):</strong> $${d.median_income_men}<br>
              <strong>Median Income (Women):</strong> $${d.median_income_women}`
           )
@@ -187,7 +186,7 @@ const extraLegendItem = legend
       })
       .transition()
       .duration(500)
-      .attr("x", (d) => x(d.total_employees) - 10) // Center the bar
+      .attr("x", (d, i) => x(d.total_employees) - 10) // Center the bar
       .attr("y", (d) => y(Math.min(d.median_income_men, d.median_income_women)))
       .attr("width", 20)
       .attr("height", (d) =>
@@ -220,7 +219,7 @@ const extraLegendItem = legend
   }
 
   // Listen for slider changes
-  const slider = d3.select("#year-slider");
+  const slider = d3.select("#year-slider");x
   const yearText = d3.select("#selected-year");
 
   slider.on("input", function () {

diff --git a/docs/index.html b/docs/index.html
@@ -8,7 +8,7 @@
 
 <meta name="author" content="Marissa Inga (mi2548)">
 <meta name="author" content="Victoria Lin (vl2534)">
-<meta name="dcterms.date" content="2024-12-07">
+<meta name="dcterms.date" content="2024-12-09">
 
 <title>US Labor Stats By Gender</title>
 <style>
@@ -178,7 +178,7 @@ ul.task-list li input[type="checkbox"] {
     <div>
     <div class="quarto-title-meta-heading">Published</div>
     <div class="quarto-title-meta-contents">
-      <p class="date">December 7, 2024</p>
+      <p class="date">December 9, 2024</p>
     </div>
   </div>
   
